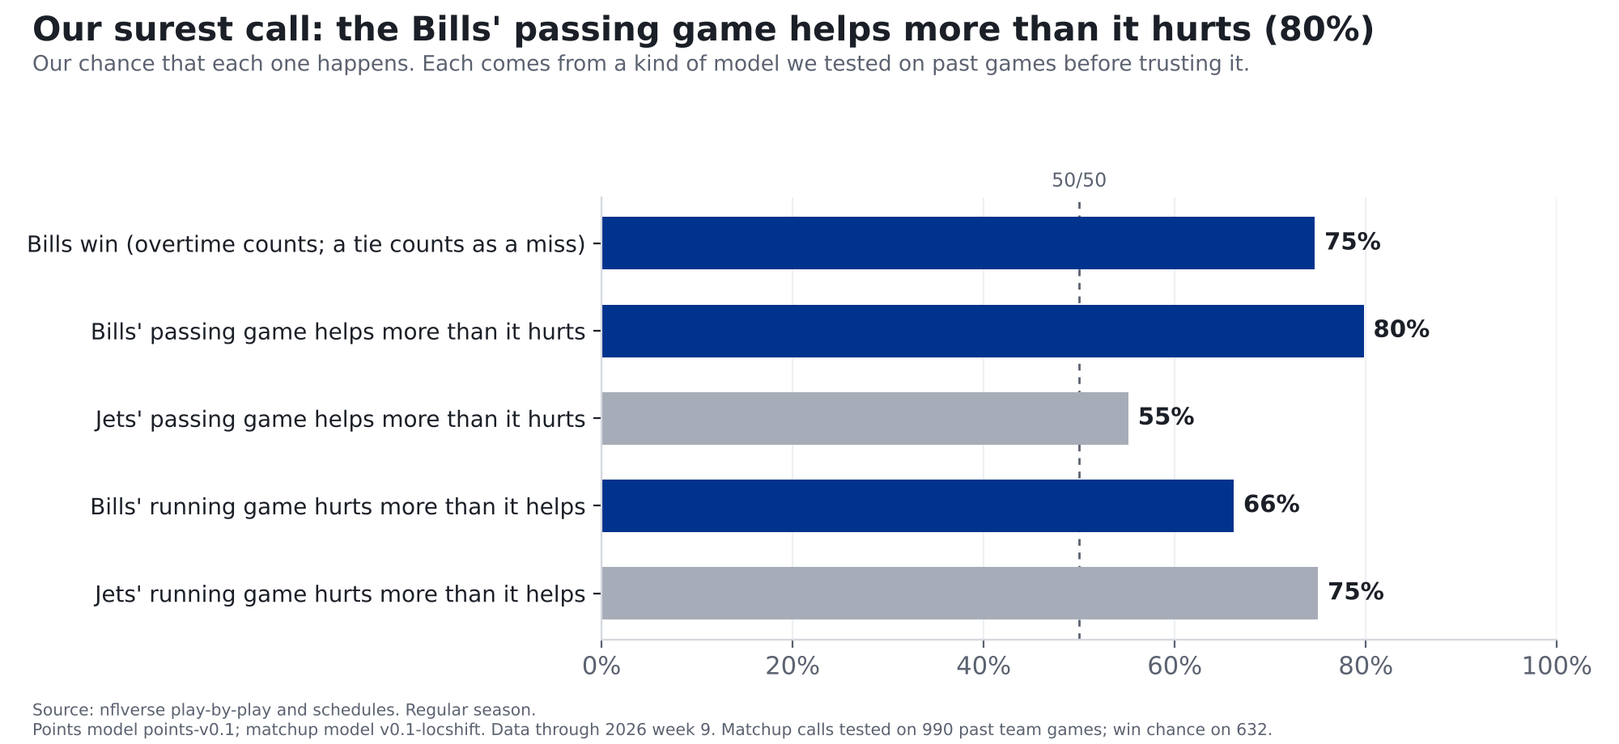
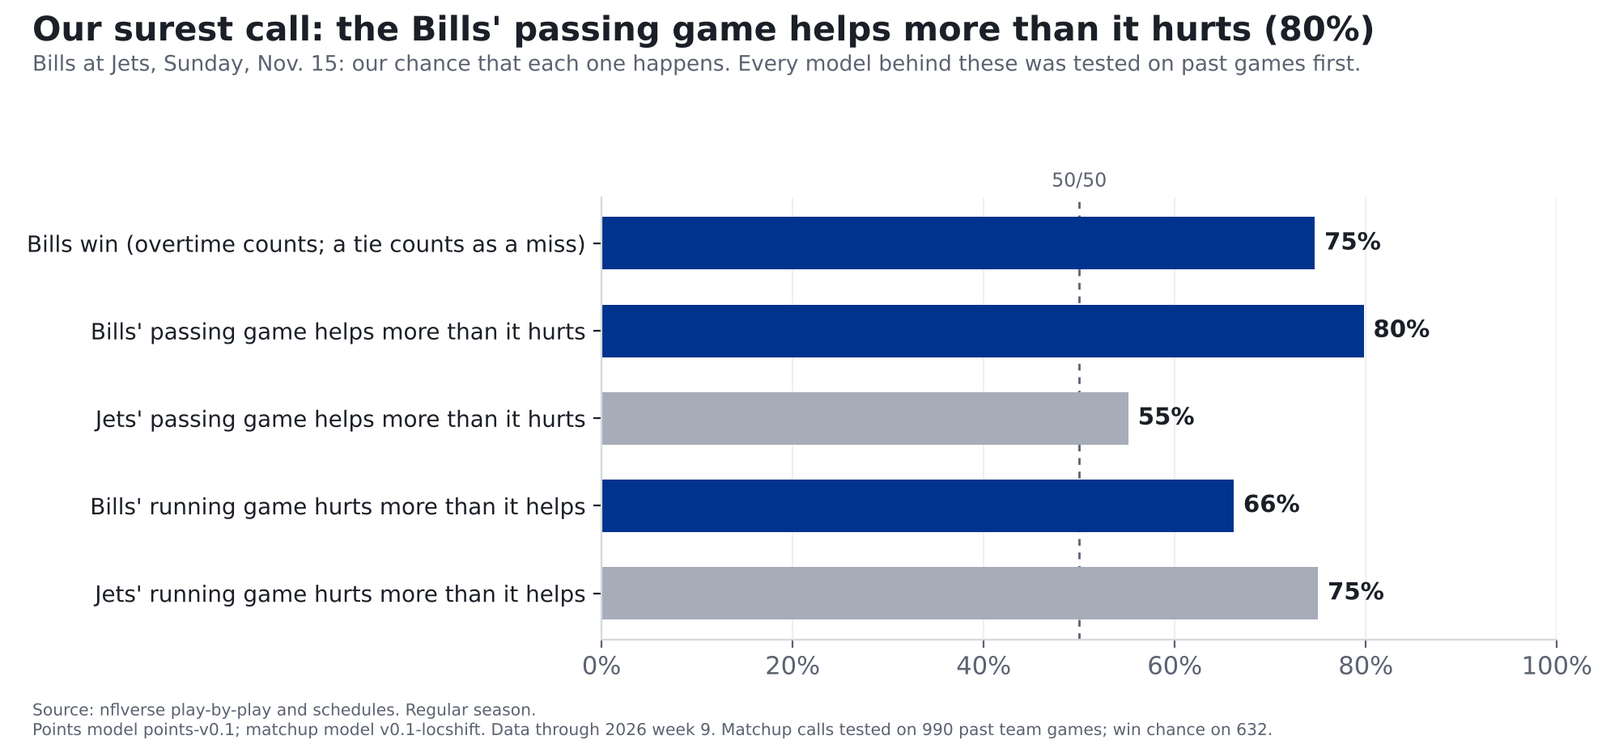
Plain labels round 2: hero, card chart, clarification quotes the Ledger, designed runs
Claude-Session: https://claude.ai/code/session_01EpbAX7fMNT8LnsxAN6UoCp

Changed region(s): [[0.0, 0.0609, 0.837, 0.1217]]

diff --git a/src/reports/wk10_prediction.py b/src/reports/wk10_prediction.py
@@ -199,7 +199,7 @@ def main():
     ax.set_xlim(0, 1); ax.xaxis.set_major_formatter(matplotlib.ticker.PercentFormatter(1, decimals=0))
     ax.grid(axis="x", color="#EEF0F3"); ax.set_axisbelow(True)
     finish(fig, f"Our surest call: the Bills' passing game helps more than it hurts ({C['buf_db']['p']:.0%})",
-           "Our chance that each one happens. Each comes from a kind of model we tested on past games before trusting it.",
+           "Bills at Jets, Sunday, Nov. 15: our chance that each one happens. Every model behind these was tested on past games first.",
            f"Points model {pm.VERSION}; matchup model {V01}. Data through 2026 week {THRU}. Matchup calls tested on {db['n']} past team games; win chance on {wt['n']}.")
     fig.savefig(OUT / "wk10-calls.png"); plt.close(fig)
 
@@ -231,7 +231,7 @@ def main():
 
     table = "\n".join(f"| {lab} | **{pr:.0%}** | {m} |" for lab, pr, m, _ in calls)
     ladder_rows = "\n".join(f"| {t} or more | **{lad[t][0]:.0%}** | {lad[t][1]:.0%} |" for t in LADDER)
-    md = f"""# Bills at Jets: our prediction. Buffalo's passing game gets one of the NFL's leakiest pass defenses
+    md = f"""# Bills at Jets: our prediction. Buffalo's passing game faces one of the NFL's leakiest pass defenses
 
 **Finding: We project the Bills for {pb:.1f} points and the Jets for {pj:.1f}, which gives Buffalo a {P['p_buf']:.0%} chance to win. The biggest mismatch on
 the field: the Bills' passing game, {ordn_(R['buf_off_rk'])}-best in the NFL, against a Jets pass defense that's {ordn_(R['opp_def_most'])}-worst. Our matchup model gives an
@@ -240,8 +240,9 @@ the field: the Bills' passing game, {ordn_(R['buf_off_rk'])}-best in the NFL, ag
 *Bills at Jets, Sunday, Nov. 15, 1 p.m. ET, MetLife Stadium. Numbers are 2026 through week {THRU}. [Last week's prediction](bills-vikings-prediction.html)
 and [how it went](bills-vikings-postgame.html): {w9_hits} of 7 calls hit.*
 
-*Clarification, Nov. 14: we reworded the four pass and run calls into plain English (for example, "the Bills' passing game helps more than it hurts" instead
-of "pass plays gain points overall"). No numbers changed. The Ledger keeps the original wording, logged Nov. 13.*
+*Clarification, Nov. 14: the old wording of our four pass and run calls read like scoreboard points, which isn't what they meant. We reworded those
+calls and the lead in plain English (for example, "the Bills' passing game helps more than it hurts"). No numbers changed. The Ledger entries, logged
+Nov. 13 before kickoff, keep the wording they were logged with (for example, "Bills' pass plays add points overall"), because Ledger entries are never edited.*
 
 ![Chance each team reaches each scoreline](wk10-ladder.png)
 
@@ -258,11 +259,11 @@ scrambles count). The Jets' pass defense has given up {R['opp_def']:.2f} a play,
 Our matchup model counts every game equally instead of every play, so the numbers shift a little. In a typical game the Bills' passing gains about {C['buf_db']['off_mean']:.2f} a play, the Jets' pass defense
 allows about {C['buf_db']['def_mean']:.2f}, and an average game is {C['buf_db']['league']:.2f}. Start from average, add half of how far above average the Bills are and half
 of how far the Jets' defense is, and you get about **{C['buf_db']['expected']:.2f} points a play** for Buffalo on Sunday. Games swing a lot, so that's not a
-promise; the model says there's an **{C['buf_db']['p']:.0%}** chance that, all told, the Bills' passing plays leave them better off than they started.
+promise; the model says there's an **{C['buf_db']['p']:.0%}** chance that, all told, the Bills' passing game helps more than it hurts.
 
 **Is {C['buf_db']['p']:.0%} too bold?** It's the most confident pass call we've made, so we checked the model's record at that level. We tested it on {db['n']}
 past team games from 2023-2025 that it had never seen. In the {int(db_hi.n)} where it gave a passing game 70% or more, it said {db_hi.said:.0%} on average, and the
-passing game came out ahead {db_hi.happened:.0%} of the time.
+passing game helped more than it hurt {db_hi.happened:.0%} of the time.
 
 The rest of the game is closer to even. The Jets score {P['raw']['opp_off']:.2f} points per drive ({ordn_(P['rk']['opp_off_rank'])} of {P['rk']['n']}); the Bills' defense allows
 {P['raw']['buf_def']:.2f} ({ordn_(P['rk']['buf_def_rank'])}).
@@ -293,7 +294,7 @@ The Jets go through the same steps from the other direction. After mixing in las
 defense at {P['def_b']:.2f}, plus the home bump.
 That's **{pj:.1f}**.
 
-## How a 30-point projection becomes {P['p_buf']:.0%}
+## How a 30-point projection becomes a {P['p_buf']:.0%} win chance
 
 Nobody scores exactly what we project. We looked at {len(res):,} past team scores from 2019-2023 and asked how far off we were. Half the time, a team landed
 within about {miss50:.0f} points of our number; eight times in ten, within about {miss80:.0f}. (On games the model had never seen, our average miss was {mae['model']:.1f} points.)
@@ -310,8 +311,9 @@ to Sunday's projections, and checked who came out ahead: Buffalo, {P['p_buf']:.0
 
 ![The calls](wk10-calls.png)
 
-What these mean: add up the value of every pass play (or every run) in the game, the good ones and the bad ones. If the total is above zero, that part
-of the offense helped more than it hurt. Running games usually hurt more than they help: in {ru['n']} past team games, that happened {1 - ru['rate']:.0%} of the time.
+What these mean: take the points every pass play was worth in the game (sacks and quarterback scrambles count as pass plays), or every designed run,
+and add them up, good plays and bad. If the total is above zero, that part of the offense helped more than it hurt. Running games usually hurt more than
+they help: in {1 - ru['rate']:.0%} of {ru['n']} past team games, a team's designed runs added up to less than zero.
 
 **Why no 20-point calls this week.** Last week we said our chances of a team reaching 20 points ran a few points low, and that we'd fix that before using
 those 20-point chances again. We haven't fixed it yet, so they're still in the ladder above but aren't logged. The whole middle of the ladder has the same issue: on games the model never saw, when it gave a
@@ -360,9 +362,9 @@ It beat the guess on pass calls and edged it on run calls.
         "note": (f"Bills win {P['p_buf']:.0%} of the time. The key matchup: Buffalo's passing game ({ordn_(R['buf_off_rk'])} in the NFL) against a Jets pass "
                  f"defense that's {ordn_(R['opp_def_most'])}-worst."),
         "explainer": {
-            "kicker": "How we checked it", "title": "Its confident calls have held up.",
-            "text": (f"When our matchup model gave a passing game 70% or more on {int(db_hi.n)} past games it hadn't seen, "
-                     "it said this, and this is how often it happened:"),
+            "kicker": "How we checked it", "title": "Our most confident calls have held up.",
+            "text": (f"In {int(db_hi.n)} past games the model hadn't seen, it gave a team's passing game a 70% or better chance to help more "
+                     "than it hurt. Here's the chance it gave, on average, and how often it happened:"),
             "fmt": "pct", "bars": [["What it said", round(float(db_hi.said), 3)], ["What happened", round(float(db_hi.happened), 3)]]},
     }, indent=1))
     print(md)

diff --git a/reports/reviews/2026-wk10-bills-at-jets-editor.md b/reports/reviews/2026-wk10-bills-at-jets-editor.md
@@ -1,19 +1,47 @@
-# Editor re-review, round 3: Bills at Jets, week 10 (text sha256 a9078ec040c0...)
+# Editor review: Bills at Jets, week 10 (call-wording correction)
 
-## One-sentence version
-"We give the Bills a 75% chance to win at MetLife, about 30 to 22, and the place they win it is through the air against the Jets' 7th-worst pass defense." The lead still says this.
+**One-sentence version:** The Bills should beat the Jets about three times in four, and their passing game against one of the NFL's leakiest pass defenses is our surest call of the week.
 
-## Verdict: ready (PASS)
+**Verdict: needs edits (FAIL on check 7).** The four reworded calls read on their own now, and so does the chart. Two lines still don't: the hero explainer and the chart's missing game name. The fixes are small. No numbers change.
 
-I checked the text and the diff against HEAD~1. All of the round-2 fixes are in:
-- **Ladder note:** reads "still in the ladder above but aren't logged. The whole middle of the ladder has the same issue". The false "flagged" is gone.
-- **Duplicate scoreboard disclaimer:** cut. The line now opens "A team's runs 'lose points' if ...".
-- **Opening:** "We grade every play in points, though not scoreboard points: ...". The real Allen example to Ty Johnson follows it.
-- **The 0.26 vs 0.27 shift:** now explained ("counts every game equally instead of every play").
-- **Tie footnote:** removed.
-- **Ledger line:** "Logged ... on Nov. 13 at 7:54 p.m. ET, before kickoff. All 5 calls ...". This matches ledger/ P0012-P0016, created 2026-11-14T00:54:53Z (7:54 p.m. EST, Nov. 13). There are five calls, all before the 2026-11-15 18:00Z kickoff, and the probabilities match the table (75/80/55/66/75).
+## What's fixed
+- Calls table and chart labels: "Bills' passing game helps more than it hurts" and the other three read on their own and follow the new house rule. Pass.
+- The explainer paragraph after the table is clear and right-sized. One small fix is below (5).
+- The clarification note is dated, plain, says no numbers changed, and admits the Ledger keeps the old wording. It's honest. Two accuracy tweaks are below (4).
+- The dek reads on its own. Pass.
+- The hero big numbers ("30 Bills, projected points", "22 Jets, projected points") and the note read on their own. Pass.
 
-## Notes for the Quant / final check (not editor blockers)
-- **Ties.** With the footnote gone, the 63% (a tie counts as a miss) and the chart footer ("Ties count as half a win") are no longer contrasted in the text. Line 100 still states the half-win rule for the 74%. This is fine for a fan; the Quant can confirm the 63% still reads correctly on its own.
-- **P0012 wording.** The Ledger claim reads "Bills beat the Jets (any result; a tie counts as a miss)". The story's table says "Bills win (overtime counts; a tie counts as a miss)". The meaning is the same, but the self-check asks for exact wording, so the final check should decide.
-- **Line wrap.** Line 14-15 wraps awkwardly in the markdown ("into\npoints. Last week at Minnesota,\nJosh"). It renders as one paragraph, so it's cosmetic only.
+## Required (check 7)
+1. **Hero explainer text** (`reports/2026-wk10-bills-at-jets.hero.json`, `explainer.text`). "Gave a passing game 70% or more" doesn't say 70% of what. Seen alone it's meaningless.
+   - Replace: `When our matchup model gave a passing game 70% or more on 134 past games it hadn't seen, it said this, and this is how often it happened:`
+   - With: `In 134 past games the model hadn't seen, it gave a team's passing game a 70% or better chance to help more than it hurt. Here's the chance it gave, on average, and how often it happened:`
+2. **Hero explainer title.** "Its confident calls have held up." has no subject on its own. The card can show it without the story.
+   - Replace: `Its confident calls have held up.`
+   - With: `Our most confident calls have held up.`
+3. **Chart `wk10-calls.png` doesn't name the game.** It's the site card image for this story (build.py), so it will be seen on its own, and nothing on it says Bills at Jets or Sunday, Nov. 15.
+   - Replace subtitle: `Our chance that each one happens. Each comes from a kind of model we tested on past games before trusting it.`
+   - With: `Bills at Jets, Sunday, Nov. 15: our chance that each one happens. Every model behind these was tested on past games first.`
+
+## Recommended
+4. **Clarification note, accuracy.** The lead (Finding) sentence was reworded too, from "pass plays gain ground". The Ledger's actual old wording is "add points overall", not "gain points overall". The note should also say why the wording changed.
+   - Replace: `*Clarification, Nov. 14: we reworded the four pass and run calls into plain English (for example, "the Bills' passing game helps more than it hurts" instead of "pass plays gain points overall"). No numbers changed. The Ledger keeps the original wording, logged Nov. 13.*`
+   - With: `*Clarification, Nov. 14: The old wording of our four pass and run calls, such as "pass plays gain points overall", read like scoreboard points. That's not what it meant. We reworded those calls and the lead in plain English (for example, "the Bills' passing game helps more than it hurts"). No numbers changed. The Ledger keeps the wording we logged on Nov. 13, before kickoff, because Ledger entries are never edited.*`
+5. **Explainer paragraph.** "The value of every pass play" works, but tie it to the points grading above. Scrambles count as pass plays, so say that. The 64% sentence is ambiguous about which games it counts.
+   - Replace: `What these mean: add up the value of every pass play (or every run) in the game, the good ones and the bad ones. If the total is above zero, that part of the offense helped more than it hurt. Running games usually hurt more than they help: in 990 past team games, that happened 64% of the time.`
+   - With: `What these mean: take the points every pass play was worth in the game (sacks and scrambles count), or every designed run, and add them up, good plays and bad. If the total is above zero, that part of the offense helped more than it hurt. Running games usually hurt more than they help: in 64% of 990 past team games, a team's running game ended below zero.`
+   (Writer: confirm the 64% means "rush total below zero" before using this.)
+6. **Old phrasing still in the matchup section**, for consistency with the call:
+   - Replace: `the Bills' passing plays leave them better off than they started.` With: `the Bills' passing game helps more than it hurts.`
+   - Replace: `and the passing game came out ahead 78% of the time.` With: `and the passing game helped more than it hurt 78% of the time.` ("Came out ahead" reads as beating the other team.)
+7. **Header that doesn't stand alone:** Replace `## How a 30-point projection becomes 75%` with `## How a 30-point projection becomes a 75% win chance`.
+8. Optional title tweak: "Buffalo's passing game gets one of the NFL's leakiest pass defenses". "Gets" works, but "faces" is clearer.
+
+All edits are in the generator `src/reports/wk10_prediction.py` too. Re-render from there so the report and chart stay in step.
+
+## Ledger rows P0012-P0016 (unchanged, for Charlie)
+These fail check 7 as written, and they're the wording on the Ledger page:
+- P0013 / P0014: "Bills' / Jets' pass plays add points overall (EPA per dropback above zero)". Same problem as the story had: a fan reads "points" as scoreboard points. The jargon in parentheses is allowed under the rule, but it doesn't rescue the main clause.
+- P0015 / P0016: "Bills' / Jets' designed runs lose points overall (rush EPA below zero)". Same problem.
+- P0012: "Bills beat the Jets (any result; a tie counts as a miss)". "Any result" is unclear. The story's "overtime counts" is what it means.
+- P0014's subject is "BUF pass defense" while the claim is about the Jets' pass plays. That's correct from Buffalo's side but could confuse anyone reading the CSV.
+- Options, none of which edit a row: (a) leave them, and rely on the story's dated note (honest, already done). (b) Show a plain-English line next to `claim_text` on the Ledger page, kept in a separate committed file keyed by id, with the logged wording still shown. Don't add correction rows: they would look like new predictions logged after the original time. Future rows should follow the house rule from the start.

diff --git a/reports/reviews/2026-wk10-bills-at-jets-quant.md b/reports/reviews/2026-wk10-bills-at-jets-quant.md
@@ -1,36 +1,19 @@
-# Quant re-check (stage 2, round 2): reports/2026-wk10-bills-at-jets.md
+# Quant re-review (narrow): 2026-wk10-bills-at-jets.md, plain-English call labels
 
-Text checked: sha256 ff02a816ce8749d0bd23a266574b4cde41b0d56714a009b3e2f22bfd5d05d668. I didn't run the generator or the logger. The Ledger still has 11 predictions; nothing for week 10 is logged.
+Verdict: FAIL as-is. Publish with two one-line text fixes (no number or model change needed).
 
-**Verdict: PASS.** Every number in the new text reproduces from my own scratch code. There's one small wording fix to make before the final check.
+## Required fixes
+1. Clarification note misquotes the Ledger. Text: "...instead of "pass plays gain points overall"). No numbers changed. The Ledger keeps the original wording, logged Nov. 13."
+   Evidence: "pass plays gain points overall" was the story's old label, not the Ledger's. P0013/P0014 claim_text say "pass plays add points overall (EPA per dropback above zero)"; P0015/P0016 say "designed runs lose points overall (rush EPA below zero)". A reader who checks the Ledger finds different wording than the note implies is "original".
+   Fix: "...instead of "pass plays gain points overall"). No numbers changed. The Ledger entries, logged Nov. 13 (ET), keep the wording they were logged with (for example, "Bills' pass plays add points overall")."
+   (Timing is fine: created_at_utc 2026-11-14T00:54:53Z = Nov. 13, 7:54 p.m. ET, before the 2026-11-15T18:00Z kickoff.)
+2. Explainer says "every run" but the run calls count designed runs only. Text: "add up the value of every pass play (or every run) in the game".
+   Evidence: rush_epa = rush_epa_sum/rushes from clean_team_week, where is_designed_rush = rush==1 AND qb_dropback!=1 on play_type 'run', kneels/spikes/2-pt/no-plays excluded (src/clean/build.py:35, 22-25, 86). 2026 raw_pbp: all 489 real-play scrambles have qb_dropback=1, rush=0, so they sit in the pass number. Ledger P0015/P0016 say "designed runs". Josh Allen scrambles are a large part of what fans call the Bills' running game, and the table is far from line 22's "(sacks and scrambles count)".
+   Fix: "add up the value of every pass play (or every designed run; QB scrambles count as pass plays) in the game..."
 
-## My four fixes from round 1
-1. **Two-point tries:** `pass_ranks` now has `COALESCE(two_point_attempt,0)=0`. The body says 0.26 over 273 (4th) and 0.16 over 312 (7th-most of 32), league 0.05. Stat-heads says +0.263 and +0.047. These match my numbers from raw_pbp (+0.2633/273, +0.1608/312, +0.0466). Fixed.
-2. **The 0.23 paragraph:** it now uses 0.27, 0.19 and 0.05. 0.049 + 0.5 x (0.221 + 0.146) = 0.233, so 0.23. These are the model's game-averaged values, which I recomputed from clean_team_week (+0.2705, +0.1950, +0.0486). Fixed.
-3. **"lines":** the word is gone from the body. Stat-heads now says "8 scorelines". The only "lines" left is "No betting lines are used", which is a disclaimer and fine. Fixed.
-4. **Calls chart:** I looked at the new wk10-calls.png. The footer is "Matchup calls tested on 990 past team games; win chance on 632". Both are correct, and it no longer says the calls are logged. Fixed.
-
-## The Editor's changes, checked
-- **The two example plays:** I checked them in raw_pbp, game 2026_09_BUF_MIN, Bills on offense.
-  - The completion is play 2588, Q3 3rd-and-8, 36 yards. Passer gsis 00-0034857 is Josh Allen; receiver 00-0035537 is Ty Johnson ("T. Johnson" is fine). EPA +3.775, so about 3.8.
-  - The sack is play 132, Q1 3rd-and-14, -7 yards, Allen sacked. EPA -1.755, so about 1.8.
-  - Neither play is a penalty or a two-point try. The asserts in example_plays() pin each to a single row.
-- **The win-test sentence:** 70%+ bucket said 75.0%, won 74.0%, 102 games, ties counted as half. The win chart shows the same. "As it gives Buffalo Sunday" is right: Buffalo is at 74.7%, which is in the 70%+ bucket.
-- **"pulls extreme projections like this 34":** the raw projection is 33.6, which rounds to 34. That matches "about 11 drives (10.92) ... about 34".
-- **The Jets' blend:** their offense rates 1.805, so 1.81, and the Bills' defense 2.078, so 2.08. Then the home bump of 1.45 gives 22.08, so 22.1. Correct.
-- **"Both sides tilt toward Buffalo":** Bills offense 2.73 is above the league's 2.05, and the Jets' defense 2.40 allows more than average. Points per drive 3.074, so 3.07. Correct.
-- **The headline**, "Buffalo's passing game gets one of the NFL's leakiest pass defenses": the Jets are 7th-most allowed per pass play. This also fixes the "best offense" vs. "4th-best passing" tension.
-- **Unchanged and still right:** the ladder (all 16 cells), 29.9 / 22.1 / 75%, the 80/55/66/75 calls, 134 games said 75 / happened 78, the 990-game backtest, 64% of runs losing points, the 632-game test (63% / 52%), the 1,744-case caveat (50 → 55), 2,494 misses, 1,247 pairs, the 18-42 range, "within 6 / 12", the average miss of 7.5, the ranks (19th, 16th, 1st, 6th-most), and "5 of 7".
-- **Logger:** log_wk10.py is unchanged and still pulls `points_block()` and `matchup_calls()`, which this round didn't touch. It would log 0.75 / 0.80 / 0.55 / 0.66 / 0.75, matching the story.
-- **Hero JSON and dek:** unchanged and consistent (30, 22, 75%, 4th, 7th-worst, 134, 0.754/0.776).
-- **Brand:** no betting language. The body uses plain decimals with no "EPA", and the jargon stays in the stat-heads section.
-
-## Fix before the final check (wording only)
-- **"they're still shown in the ladder, flagged, but not logged until fixed. The ladder has the same issue: ..."**
-  - Nothing in the ladder table or chart flags the 20+ row; the only flag is this paragraph.
-  - "The ladder has the same issue" right after "still shown in the ladder" also reads as a repeat.
-  - Suggested: "We haven't fixed it yet, so we're not logging them; they're still in the ladder above, with this caveat: on games the model never saw, when it gave a team a 40-60% chance ..."
-  - Alternatively, add a marker to the 20+ row.
-
-## Note for the final check
-After the logger runs, `ledger_status()` swaps in the "Logged on ... before kickoff" sentence. That changes the text's sha256, so the final check has to be on the post-logging text. Also confirm that the logged rows are 0.75 / 0.80 / 0.55 / 0.66 / 0.75 and that created_at_utc is before 2026-11-15 18:00Z.
+## Verified
+- Numbers: diff touches labels, the explainer, the note, the chart title only. All values unchanged: 75/80/55/66/75%, 990, 64%, 632, projections. Chart redraw shows same bars and footer.
+- Labels vs Ledger: "passing game helps more than it hurts" = P(dropback EPA/play > 0) = P0013/P0014 (0.80, 0.55). "running game hurts more than it helps" = 1 - P(rush EPA > 0) = P0015/P0016 (0.66, 0.75). Per-play average above/below zero has the same sign as the total, so "add up ... total above zero" is equivalent. Dropbacks include scrambles and sacks (qb_dropback=1), as the story says. "Running game" = designed runs in model and Ledger; acceptable plain English once fix 2 lands.
+- 990 / 64%: re-derived from clean_team_week, 2023-25 REG weeks 8+, offense side, rushes>0: n=990, share with rush_epa_sum<0 = 0.639 (no exact zeros). Matches model_v01_backtest (rate of v>0 = 36%).
+- Chart wk10-calls.png: title and labels read on their own, no jargon, 50/50 line, footer with source and samples.
+- No betting language; no jargon added in body.

diff --git a/reports/2026-wk10-bills-at-jets.md b/reports/2026-wk10-bills-at-jets.md
@@ -1,4 +1,4 @@
-# Bills at Jets: our prediction. Buffalo's passing game gets one of the NFL's leakiest pass defenses
+# Bills at Jets: our prediction. Buffalo's passing game faces one of the NFL's leakiest pass defenses
 
 **Finding: We project the Bills for 29.9 points and the Jets for 22.1, which gives Buffalo a 75% chance to win. The biggest mismatch on
 the field: the Bills' passing game, 4th-best in the NFL, against a Jets pass defense that's 7th-worst. Our matchup model gives an
@@ -7,8 +7,9 @@ the field: the Bills' passing game, 4th-best in the NFL, against a Jets pass def
 *Bills at Jets, Sunday, Nov. 15, 1 p.m. ET, MetLife Stadium. Numbers are 2026 through week 9. [Last week's prediction](bills-vikings-prediction.html)
 and [how it went](bills-vikings-postgame.html): 5 of 7 calls hit.*
 
-*Clarification, Nov. 14: we reworded the four pass and run calls into plain English (for example, "the Bills' passing game helps more than it hurts" instead
-of "pass plays gain points overall"). No numbers changed. The Ledger keeps the original wording, logged Nov. 13.*
+*Clarification, Nov. 14: the old wording of our four pass and run calls read like scoreboard points, which isn't what they meant. We reworded those
+calls and the lead in plain English (for example, "the Bills' passing game helps more than it hurts"). No numbers changed. The Ledger entries, logged
+Nov. 13 before kickoff, keep the wording they were logged with (for example, "Bills' pass plays add points overall"), because Ledger entries are never edited.*
 
 ![Chance each team reaches each scoreline](wk10-ladder.png)
 
@@ -25,11 +26,11 @@ scrambles count). The Jets' pass defense has given up 0.16 a play, 7th-most of 3
 Our matchup model counts every game equally instead of every play, so the numbers shift a little. In a typical game the Bills' passing gains about 0.27 a play, the Jets' pass defense
 allows about 0.19, and an average game is 0.05. Start from average, add half of how far above average the Bills are and half
 of how far the Jets' defense is, and you get about **0.23 points a play** for Buffalo on Sunday. Games swing a lot, so that's not a
-promise; the model says there's an **80%** chance that, all told, the Bills' passing plays leave them better off than they started.
+promise; the model says there's an **80%** chance that, all told, the Bills' passing game helps more than it hurts.
 
 **Is 80% too bold?** It's the most confident pass call we've made, so we checked the model's record at that level. We tested it on 990
 past team games from 2023-2025 that it had never seen. In the 134 where it gave a passing game 70% or more, it said 75% on average, and the
-passing game came out ahead 78% of the time.
+passing game helped more than it hurt 78% of the time.
 
 The rest of the game is closer to even. The Jets score 1.92 points per drive (19th of 32); the Bills' defense allows
 2.10 (16th).
@@ -67,7 +68,7 @@ The Jets go through the same steps from the other direction. After mixing in las
 defense at 2.08, plus the home bump.
 That's **22.1**.
 
-## How a 30-point projection becomes 75%
+## How a 30-point projection becomes a 75% win chance
 
 Nobody scores exactly what we project. We looked at 2,494 past team scores from 2019-2023 and asked how far off we were. Half the time, a team landed
 within about 6 points of our number; eight times in ten, within about 12. (On games the model had never seen, our average miss was 7.5 points.)
@@ -88,8 +89,9 @@ to Sunday's projections, and checked who came out ahead: Buffalo, 75% of the tim
 
 ![The calls](wk10-calls.png)
 
-What these mean: add up the value of every pass play (or every run) in the game, the good ones and the bad ones. If the total is above zero, that part
-of the offense helped more than it hurt. Running games usually hurt more than they help: in 990 past team games, that happened 64% of the time.
+What these mean: take the points every pass play was worth in the game (sacks and quarterback scrambles count as pass plays), or every designed run,
+and add them up, good plays and bad. If the total is above zero, that part of the offense helped more than it hurt. Running games usually hurt more than
+they help: in 64% of 990 past team games, a team's designed runs added up to less than zero.
 
 **Why no 20-point calls this week.** Last week we said our chances of a team reaching 20 points ran a few points low, and that we'd fix that before using
 those 20-point chances again. We haven't fixed it yet, so they're still in the ladder above but aren't logged. The whole middle of the ladder has the same issue: on games the model never saw, when it gave a

diff --git a/CLAUDE.md b/CLAUDE.md
@@ -165,7 +165,8 @@ REST API (`gh api`, not `gh release download`, which needs GraphQL). Seasons 202
 - **Every call and label reads on its own.** Ledger calls, table rows, chart labels and titles travel without the story
   (screenshots, the Ledger page), so each must make sense alone. Pass and run calls are written as "the Bills' passing game
   helps more than it hurts" / "the Jets' running game hurts more than it helps", never "pass plays gain points overall" or
-  "runs lose points". Write the Ledger `claim_text` the same way, with the stat definition in parentheses at the end.
+  "runs lose points". Write the Ledger `claim_text` the same way, with the stat definition in parentheses at the end. The run
+  calls count designed runs only; QB scrambles count as pass plays, so say so next to any run call.
 - **Published stories never change silently.** Every generator pins its data with an `AS_OF` date (games through that
   date). Re-running it reproduces the published numbers. Updated numbers mean a new, clearly dated story or note.
 
